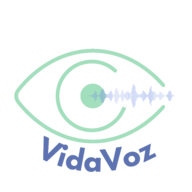
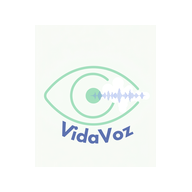
Eliminate black splash screen and hide cursor during loading
Update service worker cache version and regenerate icons to fix black PWA splash screen. Modify global cursor logic to hide the cursor during the splash screen and reveal it upon completion.

Replit-Commit-Author: Agent
Replit-Commit-Session-Id: 365f5442-ec17-4b0e-bd2c-9c17116f799f
Replit-Commit-Checkpoint-Type: full_checkpoint
Replit-Commit-Event-Id: ff8b2e2e-43ef-4e56-93bf-bf061ddfcf7d
Replit-Commit-Screenshot-Url: https://storage.googleapis.com/screenshot-production-us-central1/728afe0e-59b1-484a-a2a9-9031e6b71376/365f5442-ec17-4b0e-bd2c-9c17116f799f/rZ5oYYk
Replit-Helium-Checkpoint-Created: true

Changed region(s): [[0.0625, 0.25, 0.9062, 0.9062], [0.2188, 0.4688, 0.25, 0.5312]]

diff --git a/client/src/lib/globalCursor.ts b/client/src/lib/globalCursor.ts
@@ -26,7 +26,9 @@ function createCursorElement(): HTMLDivElement {
 }
 
 function applyBaseStyles(el: HTMLDivElement) {
-  // Estilos inline completos — no dependen del CSS externo para máxima robustez
+  // Estilos inline completos — no dependen del CSS externo para máxima robustez.
+  // El cursor arranca OCULTO (opacity:0) y solo se muestra tras la Splash Screen
+  // mediante setCursorVisible(true) llamado desde App.tsx al salir de la fase splash.
   el.style.cssText = `
     position: fixed !important;
     top: 0 !important;
@@ -39,10 +41,10 @@ function applyBaseStyles(el: HTMLDivElement) {
     box-shadow: 0 0 0 2px rgba(255,255,255,0.6), 0 0 18px rgba(20,184,166,0.7) !important;
     pointer-events: none !important;
     z-index: 99999 !important;
-    opacity: 1 !important;
+    opacity: 0 !important;
     display: block !important;
     will-change: transform !important;
-    transition: box-shadow 0.18s, background 0.12s !important;
+    transition: box-shadow 0.18s, background 0.12s, opacity 0.3s !important;
   `;
   // Posición inicial: centro exacto de la pantalla
   const cx = typeof window !== 'undefined' ? window.innerWidth  / 2 : 0;
@@ -122,4 +124,11 @@ window.addEventListener('touchstart', (e: TouchEvent) => {
 /** Activa/desactiva la prioridad del eye-tracking sobre el ratón */
 export function setGazePriority(active: boolean) {
   _gazePriority = active;
+}
+
+/** Muestra u oculta el cursor.
+ *  Se llama desde App.tsx: false durante la Splash Screen, true al terminarla.
+ *  El cursor arranca con opacity:0 por defecto. */
+export function setCursorVisible(visible: boolean) {
+  globalCursor.style.setProperty('opacity', visible ? '1' : '0', 'important');
 }

diff --git a/client/src/App.tsx b/client/src/App.tsx
@@ -6,6 +6,7 @@ import { QueryClientProvider } from "@tanstack/react-query";
 import { Toaster } from "@/components/ui/toaster";
 import { TooltipProvider } from "@/components/ui/tooltip";
 import NotFound from "@/pages/not-found";
+import { setCursorVisible } from "@/lib/globalCursor";
 
 // Pages
 import Urgent from "./pages/Urgent";
@@ -67,8 +68,11 @@ type AppPhase = "splash" | "profile" | "ready";
 function App() {
   const [phase, setPhase] = useState<AppPhase>("splash");
 
-  const handleSplashDone  = useCallback(() => setPhase("profile"), []);
-  const handleProfileDone = useCallback(() => setPhase("ready"),   []);
+  const handleSplashDone  = useCallback(() => {
+    setCursorVisible(true);   // cursor oculto durante la splash → visible ahora
+    setPhase("profile");
+  }, []);
+  const handleProfileDone = useCallback(() => setPhase("ready"), []);
 
   return (
     <ErrorBoundary>

diff --git a/client/public/sw.js b/client/public/sw.js
@@ -1,4 +1,4 @@
-const CACHE = "vozuci-v1";
+const CACHE = "vidavoz-v3"; // bumped: manifest background_color #fff + new icons
 const OFFLINE_URLS = ["/", "/mensajes", "/escalas", "/teclado"];
 
 self.addEventListener("install", (e) => {